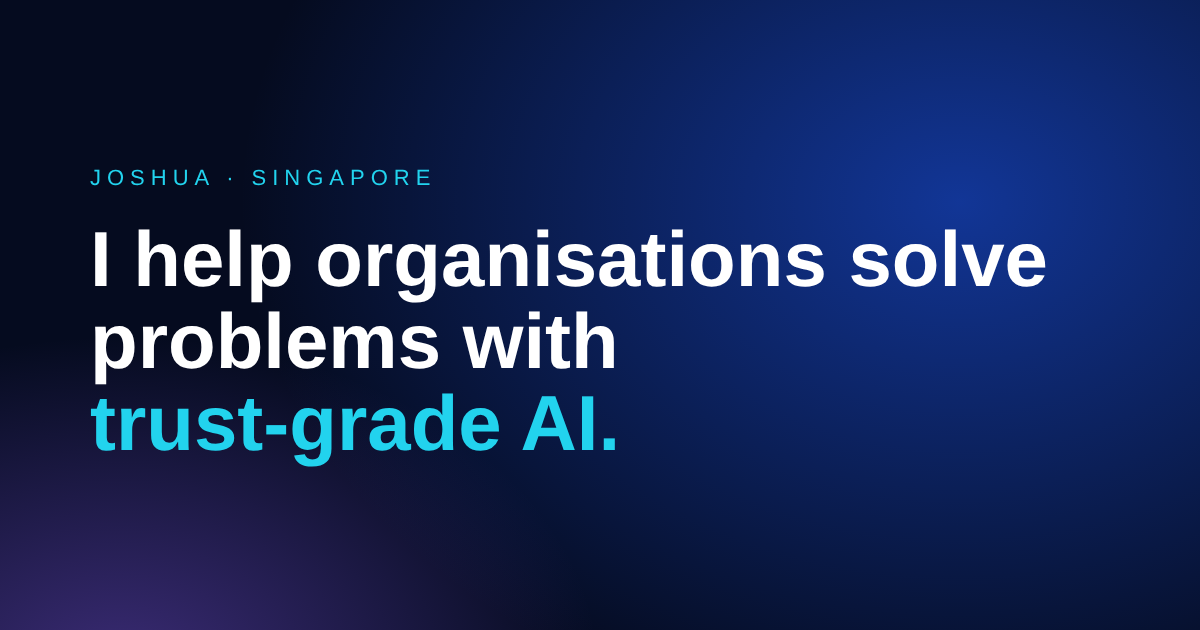
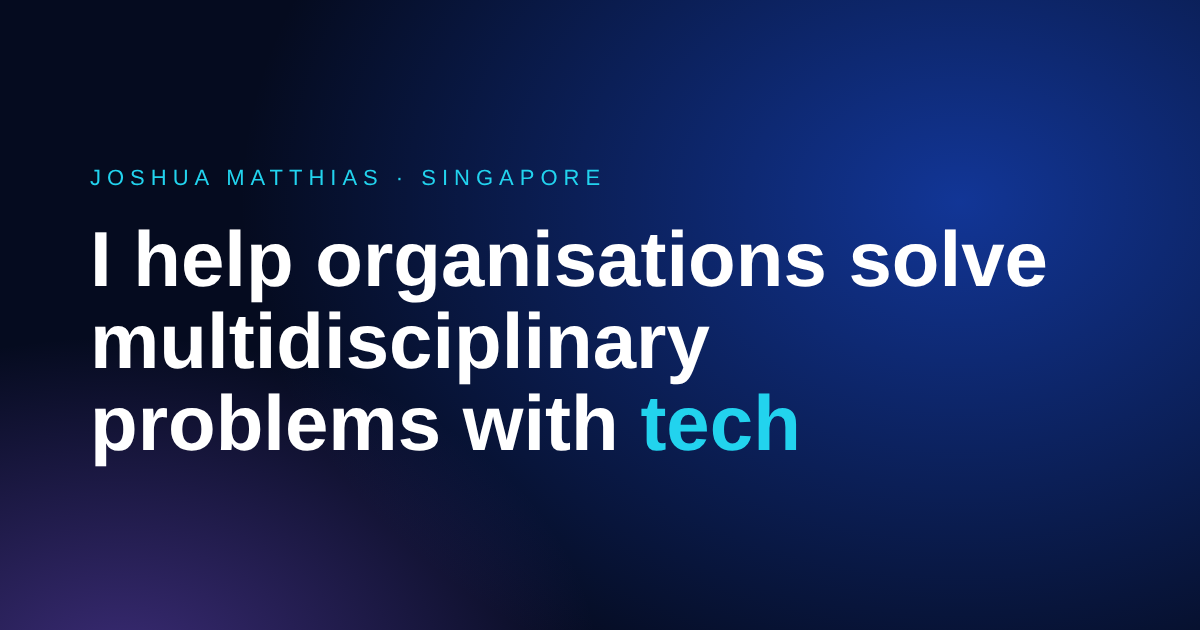
Update name, hero headline and add moving gradient on 'tech'
Claude-Session: https://claude.ai/code/session_01MotTWJHu6mzzga1pkGrk9F

Changed region(s): [[0.0617, 0.4825, 0.6783, 0.754], [0.185, 0.2714, 0.4933, 0.3016]]

diff --git a/index.html b/index.html
@@ -10,18 +10,18 @@
        After Vercel gives you your real address, replace
        https://your-site.vercel.app everywhere in this block.
        ============================================================ -->
-  <title>Joshua | Trust-grade AI, Marketing &amp; Consulting · Singapore</title>
-  <meta name="description" content="Joshua is a Singapore-based marketer and AI builder helping organisations solve problems with trust-grade AI." />
+  <title>Joshua Matthias | Trust-grade AI, Marketing &amp; Consulting · Singapore</title>
+  <meta name="description" content="Joshua Matthias is a Singapore-based marketer and AI builder helping organisations solve problems with trust-grade AI." />
   <meta name="theme-color" content="#050b1f" />
   <link rel="canonical" href="https://your-site.vercel.app/" /> <!-- [EDIT ME] -->
 
   <meta property="og:type" content="website" />
-  <meta property="og:title" content="Joshua | Trust-grade AI for organisations" />
+  <meta property="og:title" content="Joshua Matthias | Trust-grade AI for organisations" />
   <meta property="og:description" content="Marketing, AI builds, and consulting at the intersection of technology and trust." />
   <meta property="og:url" content="https://your-site.vercel.app/" /> <!-- [EDIT ME] -->
   <meta property="og:image" content="https://your-site.vercel.app/images/og-image.png" /> <!-- [EDIT ME] must be a full web address -->
   <meta name="twitter:card" content="summary_large_image" />
-  <meta name="twitter:title" content="Joshua | Trust-grade AI for organisations" />
+  <meta name="twitter:title" content="Joshua Matthias | Trust-grade AI for organisations" />
   <meta name="twitter:description" content="Marketing, AI builds, and consulting at the intersection of technology and trust." />
   <meta name="twitter:image" content="https://your-site.vercel.app/images/og-image.png" /> <!-- [EDIT ME] -->
 
@@ -53,7 +53,7 @@
   <!-- ===================== NAVIGATION ===================== -->
   <header class="nav" id="nav">
     <a class="nav__brand" href="#hero" aria-label="Back to top">
-      <span class="nav__dot"></span>Joshua <!-- [EDIT ME] your name -->
+      <span class="nav__dot"></span>Joshua Matthias <!-- [EDIT ME] your name -->
     </a>
 
     <button class="nav__toggle" id="navToggle" aria-label="Open menu" aria-expanded="false" aria-controls="navLinks">
@@ -83,7 +83,7 @@
         <p class="eyebrow" data-hero-fade>Singapore · Marketing · AI · Consulting</p>
 
         <!-- [EDIT ME] Headline. Keep the <span class="grad"> around the part you want glowing. -->
-        <h1 class="hero__title" id="heroTitle">I help organisations solve problems with <span class="grad">trust-grade AI.</span></h1>
+        <h1 class="hero__title" id="heroTitle">I help organisations solve multidisciplinary problems with <span class="grad grad--move">tech</span></h1>
 
         <!-- [EDIT ME] Short line under the headline -->
         <p class="hero__sub" data-hero-fade>Marketing, AI builds, and consulting at the intersection of technology and trust.</p>
@@ -308,7 +308,7 @@
       <footer class="footer">
         <div class="container footer__inner">
           <!-- [EDIT ME] name. The year fills in automatically. -->
-          <span>© <span id="year">2026</span> Joshua. All rights reserved.</span>
+          <span>© <span id="year">2026</span> Joshua Matthias. All rights reserved.</span>
           <a href="#hero">Back to top ↑</a>
         </div>
       </footer>

diff --git a/style.css b/style.css
@@ -65,6 +65,16 @@ html.lenis, html.lenis body { height: auto; }
   -webkit-background-clip: text; background-clip: text;
   -webkit-text-fill-color: transparent; color: transparent;
 }
+/* Words that get split for animation are inline-blocks, so they need the gradient themselves */
+.grad .word__inner { background: inherit; -webkit-background-clip: text; background-clip: text; -webkit-text-fill-color: transparent; color: transparent; }
+/* Moving gradient: add class "grad--move" next to "grad" on any word */
+.grad--move, .grad--move .word__inner {
+  background-image: linear-gradient(100deg, var(--cyan), #6ea8ff, var(--violet), #6ea8ff, var(--cyan));
+  background-size: 300% 100%;
+  animation: gradMove 5s linear infinite;
+}
+@keyframes gradMove { to { background-position: -300% 0; } }
+
 .eyebrow {
   font-family: var(--font-head);
   text-transform: uppercase; letter-spacing: 0.22em;
@@ -177,8 +187,8 @@ html.lenis, html.lenis body { height: auto; }
 .hero__inner { position: relative; z-index: 2; padding-top: 90px; padding-bottom: 90px; }
 .hero__title {
   font-family: var(--font-head); font-weight: 700; color: var(--white);
-  font-size: clamp(2.5rem, 7vw, 5.6rem); line-height: 1.04; letter-spacing: -0.03em;
-  max-width: 15ch; margin-bottom: 28px;
+  font-size: clamp(2rem, 7vw, 5.6rem); line-height: 1.04; letter-spacing: -0.03em;
+  max-width: 17ch; margin-bottom: 28px;
 }
 /* each word is wrapped so it can slide up from a mask */
 .word { display: inline-block; overflow: hidden; vertical-align: top; padding-bottom: 0.12em; margin-bottom: -0.12em; }
